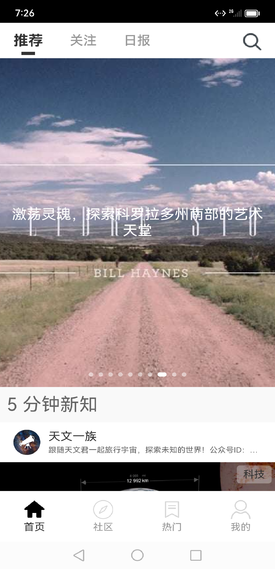
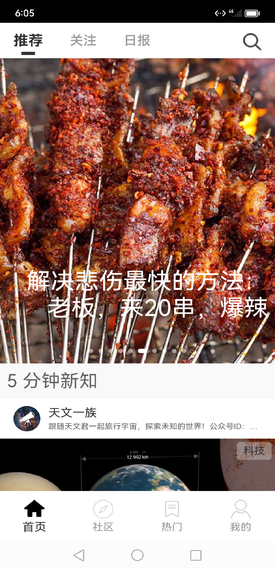
replace home tab page screen shot image

diff --git a/README.md b/README.md
@@ -11,7 +11,7 @@
 
 # 项目截图：
 ![image](https://s2.loli.net/2023/03/28/XmI9AJShr4jCPFH.png)
-![image](https://s2.loli.net/2023/03/28/DLCdjYHTAkGcl19.png)
+![image](https://s2.loli.net/2023/03/28/g7VCG6YW29XErxF.png)
 ![image](https://s2.loli.net/2023/03/28/Am8B3LqMvVb9H6R.png)
 ![image](https://s2.loli.net/2023/03/28/bQAqz51OvucaPt9.png)
 ![image](https://s2.loli.net/2023/03/28/KRp9gIye2qQawjm.png)
